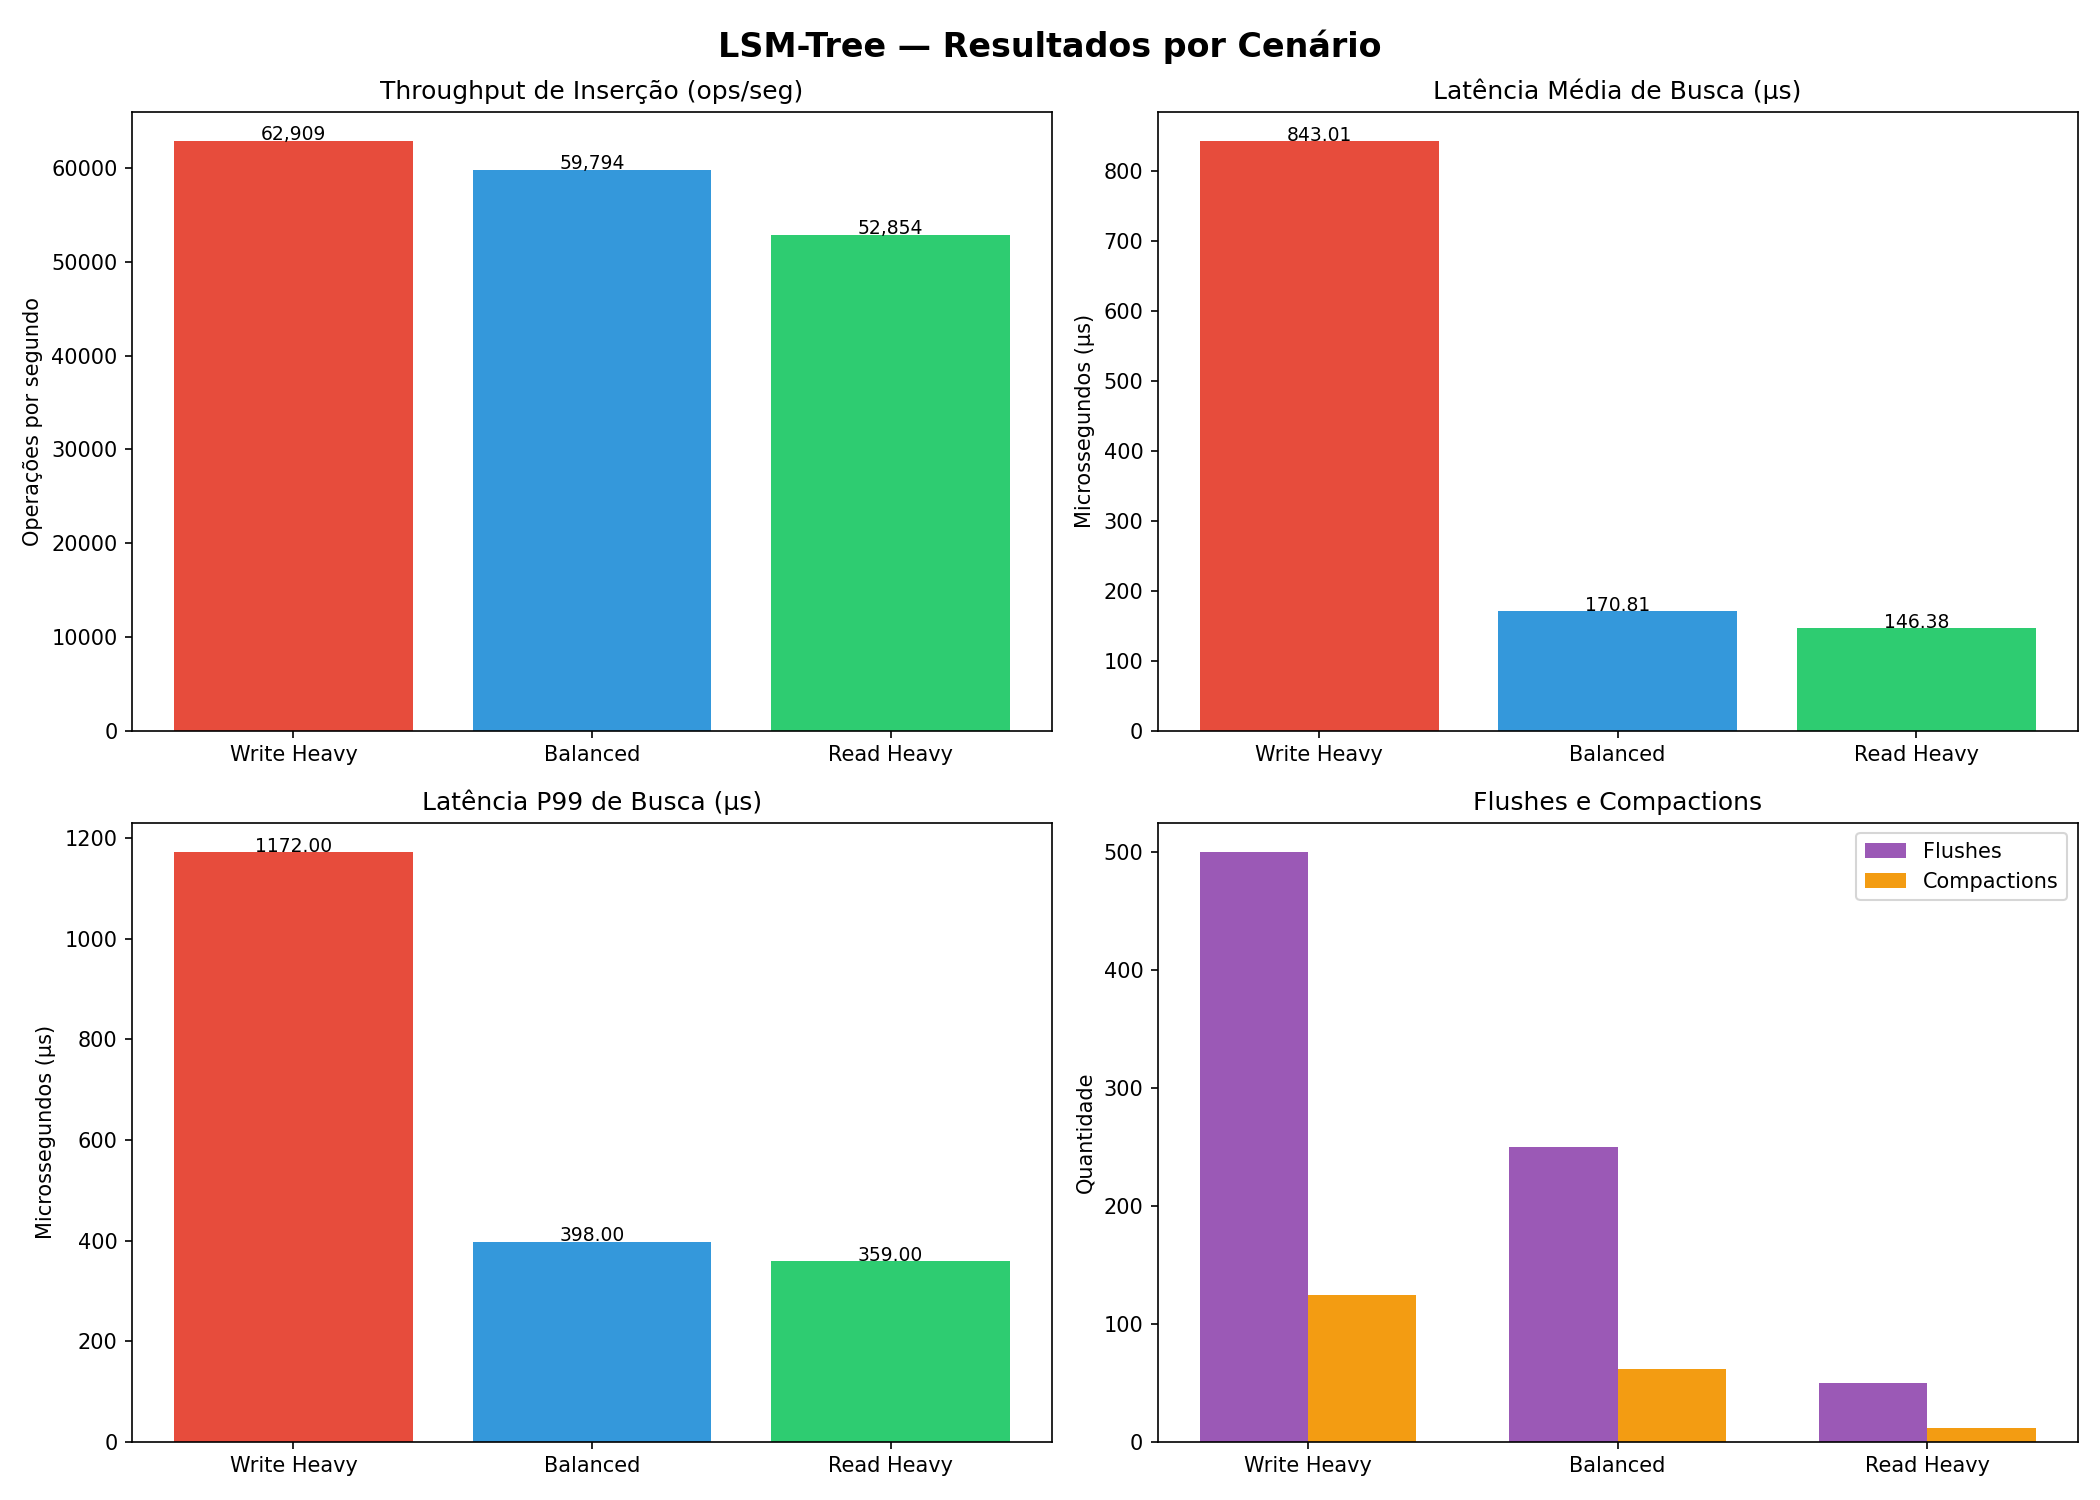
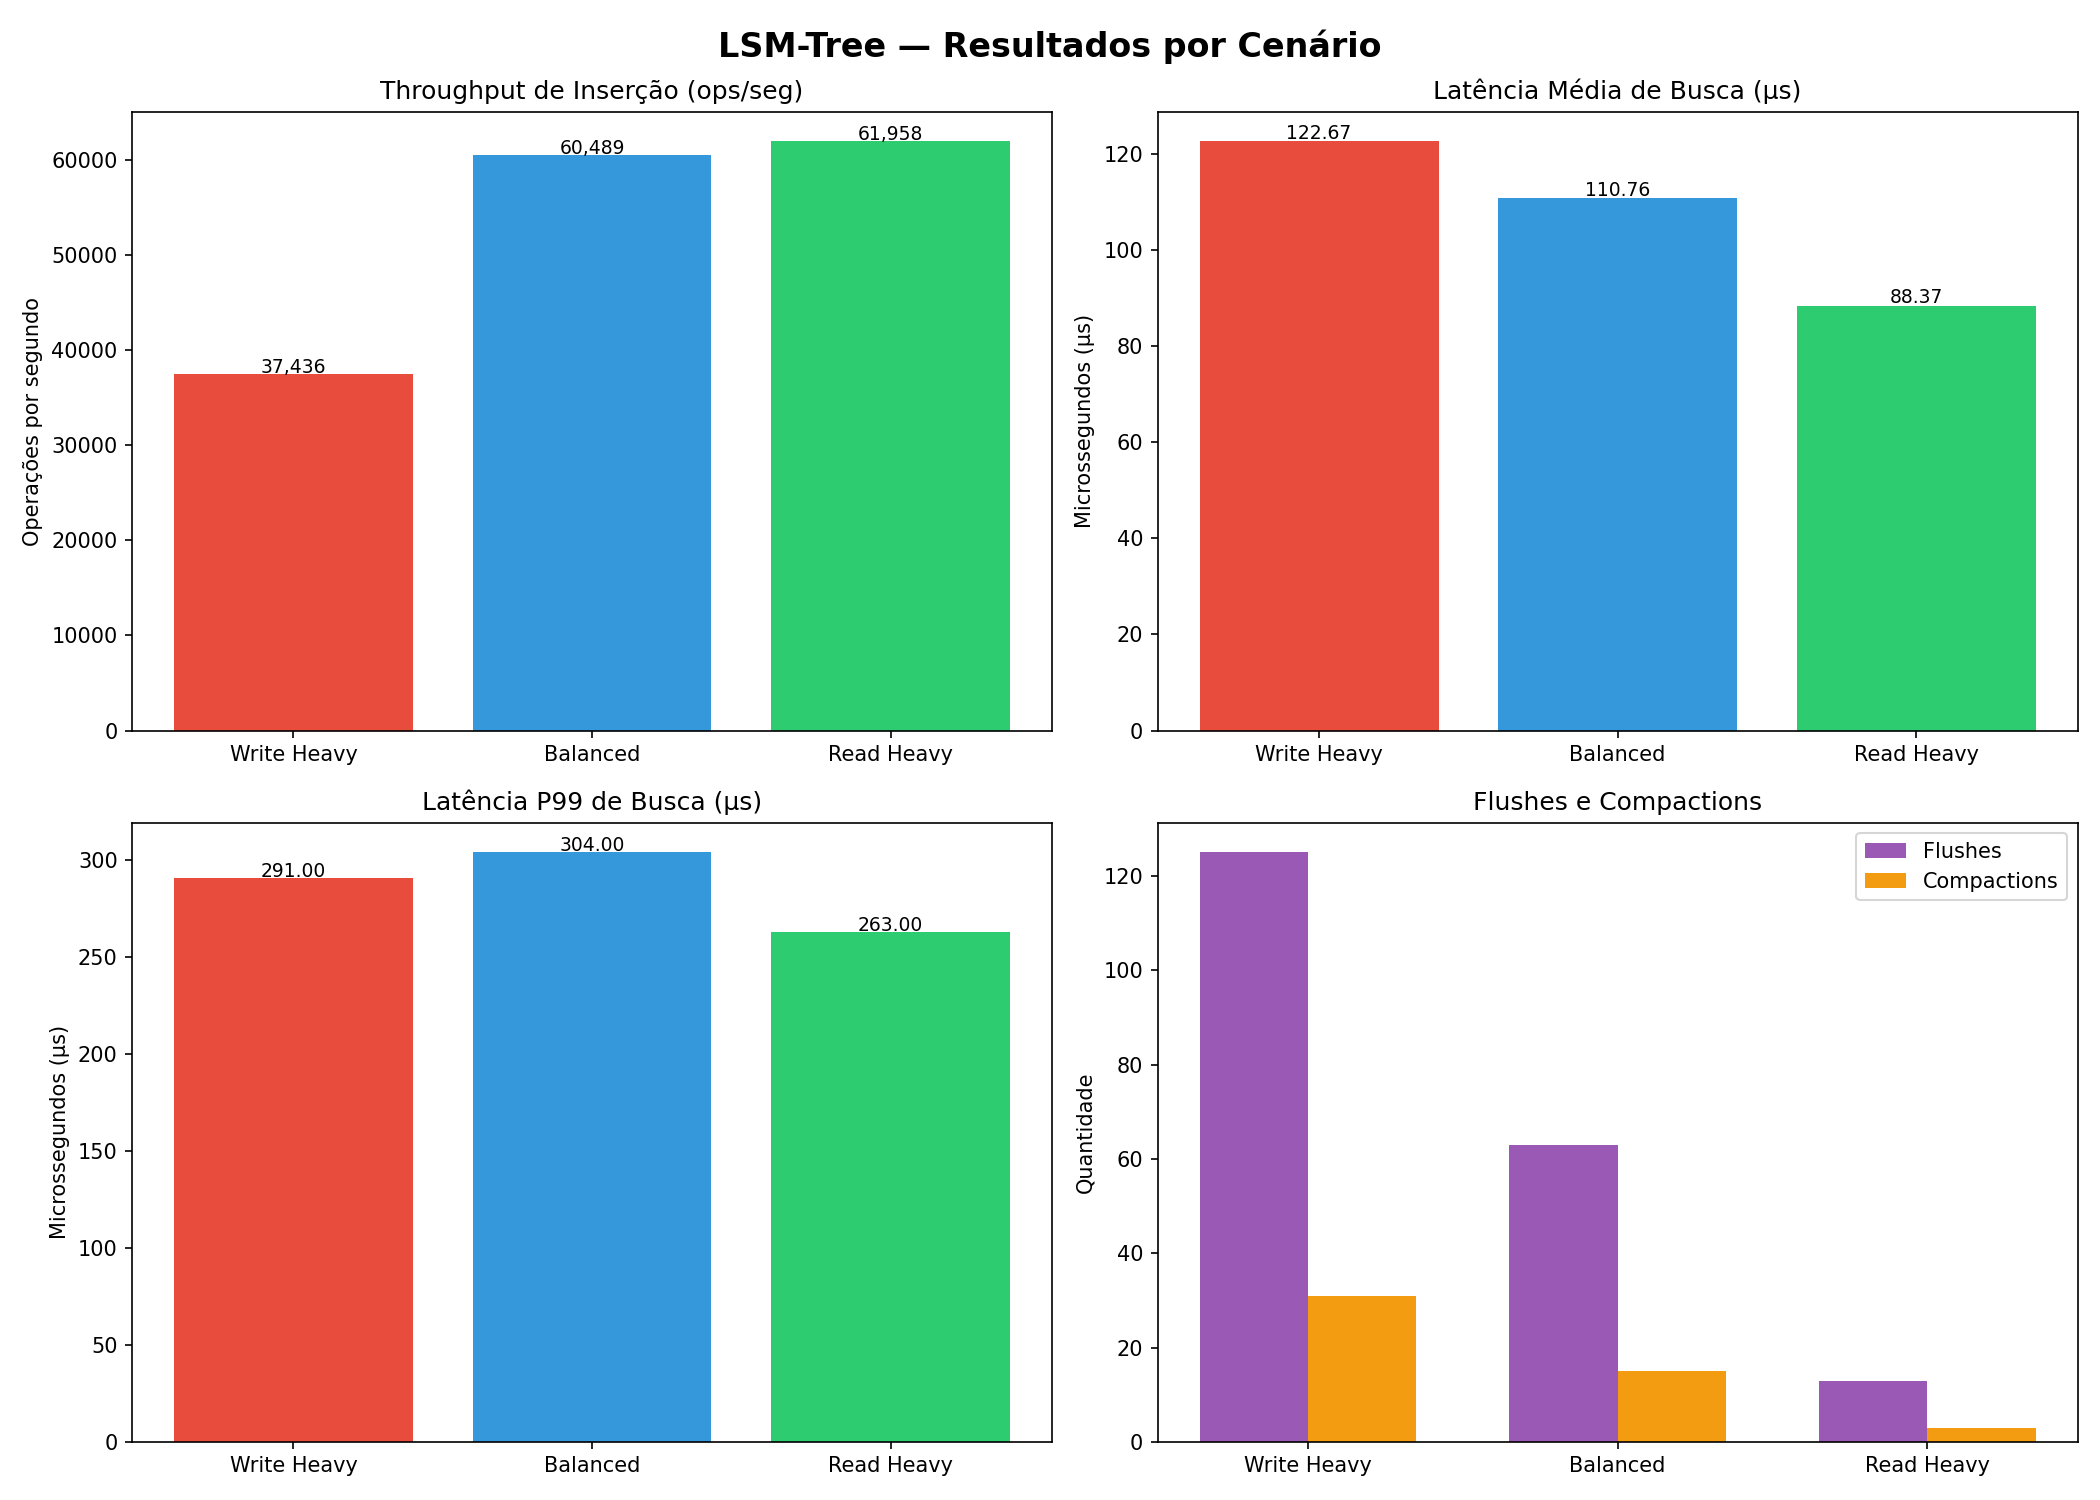
correcao bugs

diff --git a/src/main/java/lsm/core/SSTable.java b/src/main/java/lsm/core/SSTable.java
@@ -3,6 +3,7 @@ package lsm.core;
 import java.io.BufferedReader;
 import java.io.BufferedWriter;
 import java.io.IOException;
+import java.io.RandomAccessFile;
 import java.nio.file.Files;
 import java.nio.file.Path;
 import java.util.ArrayList;
@@ -11,41 +12,131 @@ import java.util.List;
 public class SSTable {
 
     private final Path filePath;
+    private final Path indexPath;
     private final int level;
     private final long timestamp;
 
+    // Índice carregado uma única vez em memória — reutilizado em todas as buscas
+    private List<String> indexKeys    = null;
+    private List<Long>   indexOffsets = null;
+
     public SSTable(Path filePath, int level, long timestamp) {
-        this.filePath = filePath;
-        this.level = level;
+        this.filePath  = filePath;
+        this.indexPath = Path.of(filePath.toString().replace(".sst", ".index"));
+        this.level     = level;
         this.timestamp = timestamp;
     }
 
-    // Salva os pares chave=valor no disco em ordem crescente de chave
+    // Salva os pares chave=valor no disco em ordem crescente de chave.
+    // Gera também um arquivo .index com os offsets de byte de cada linha
+    // e carrega esse índice em memória imediatamente.
 
     public void write(List<String[]> entries) throws IOException {
         Files.createDirectories(filePath.getParent());
 
+        List<String> keys    = new ArrayList<>(entries.size());
+        List<Long>   offsets = new ArrayList<>(entries.size());
+
         try (BufferedWriter writer = Files.newBufferedWriter(filePath)) {
+            long offset = 0;
             for (String[] entry : entries) {
-                writer.write(entry[0] + "=" + entry[1]);
-                writer.newLine();
+                keys.add(entry[0]);
+                offsets.add(offset);
+                String line = entry[0] + "=" + entry[1] + "\n";
+                writer.write(line);
+                offset += line.getBytes().length;
+            }
+        }
+
+        // Persiste o índice no disco
+        try (BufferedWriter idxWriter = Files.newBufferedWriter(indexPath)) {
+            for (int i = 0; i < keys.size(); i++) {
+                idxWriter.write(keys.get(i) + "=" + offsets.get(i));
+                idxWriter.newLine();
+            }
+        }
+
+        // Mantém o índice em memória para buscas imediatas
+        this.indexKeys    = keys;
+        this.indexOffsets = offsets;
+    }
+
+    // Carrega o índice do disco para memória (chamado uma única vez por SSTable).
+    // Nas buscas subsequentes o índice já está em memória — sem I/O de índice.
+
+    private void loadIndex() throws IOException {
+        indexKeys    = new ArrayList<>();
+        indexOffsets = new ArrayList<>();
+
+        if (!Files.exists(indexPath))
+            return;
+
+        try (BufferedReader reader = Files.newBufferedReader(indexPath)) {
+            String line;
+            while ((line = reader.readLine()) != null) {
+                int sep = line.lastIndexOf('=');
+                if (sep > 0) {
+                    indexKeys.add(line.substring(0, sep));
+                    indexOffsets.add(Long.parseLong(line.substring(sep + 1)));
+                }
             }
         }
     }
 
-    // Busca um valor pela chave no arquivo
+    // Busca um valor pela chave usando busca binária sobre o índice em memória.
+    // O índice é carregado do disco apenas na primeira chamada — O(n) uma vez.
+    // Buscas seguintes: O(log n) puro, sem nenhum I/O de índice.
 
     public Integer get(String key) throws IOException {
         if (!Files.exists(filePath))
             return null;
 
+        // Sem índice no disco: cai no fallback linear
+        if (!Files.exists(indexPath))
+            return getLinear(key);
+
+        // Carrega o índice na primeira busca desta SSTable
+        if (indexKeys == null)
+            loadIndex();
+
+        if (indexKeys.isEmpty())
+            return null;
+
+        // Busca binária sobre as chaves do índice (já em memória)
+        int lo = 0, hi = indexKeys.size() - 1, found = -1;
+        while (lo <= hi) {
+            int mid = (lo + hi) >>> 1;
+            int cmp = indexKeys.get(mid).compareTo(key);
+            if (cmp == 0) { found = mid; break; }
+            else if (cmp < 0) lo = mid + 1;
+            else              hi = mid - 1;
+        }
+
+        if (found == -1)
+            return null;
+
+        // Seek direto para o offset no .sst — lê apenas 1 linha
+        try (RandomAccessFile raf = new RandomAccessFile(filePath.toFile(), "r")) {
+            raf.seek(indexOffsets.get(found));
+            String line = raf.readLine();
+            if (line != null) {
+                int sep = line.indexOf('=');
+                if (sep > 0)
+                    return Integer.parseInt(line.substring(sep + 1).trim());
+            }
+        }
+
+        return null;
+    }
+
+    // Fallback linear para arquivos sem índice (compatibilidade)
+    private Integer getLinear(String key) throws IOException {
         try (BufferedReader reader = Files.newBufferedReader(filePath)) {
             String line;
             while ((line = reader.readLine()) != null) {
                 String[] parts = line.split("=", 2);
-                if (parts.length == 2 && parts[0].equals(key)) {
+                if (parts.length == 2 && parts[0].equals(key))
                     return Integer.parseInt(parts[1]);
-                }
             }
         }
         return null;
@@ -62,30 +153,23 @@ public class SSTable {
             String line;
             while ((line = reader.readLine()) != null) {
                 String[] parts = line.split("=", 2);
-                if (parts.length == 2) {
+                if (parts.length == 2)
                     result.add(new String[] { parts[0], parts[1] });
-                }
             }
         }
         return result;
     }
 
-    // Deleta o arquivo do disco (usado após compaction)
-    
+    // Deleta o .sst e o .index do disco (usado após compaction)
+
     public void delete() throws IOException {
         Files.deleteIfExists(filePath);
+        Files.deleteIfExists(indexPath);
+        indexKeys    = null;
+        indexOffsets = null;
     }
 
-    public Path getFilePath() {
-        return filePath;
-    }
-
-    public int getLevel() {
-        return level;
-    }
-
-    public long getTimestamp() {
-        return timestamp;
-    }
+    public Path getFilePath() { return filePath;  }
+    public int  getLevel()    { return level;      }
+    public long getTimestamp(){ return timestamp;  }
 }
-

diff --git a/src/main/java/lsm/core/LSMTree.java b/src/main/java/lsm/core/LSMTree.java
@@ -3,8 +3,9 @@ package lsm.core;
 import java.io.IOException;
 import java.nio.file.Paths;
 import java.util.ArrayList;
+import java.util.HashMap;
 import java.util.List;
-
+import java.util.Map;
 import lsm.util.MetricsLogger;
 
 public class LSMTree {
@@ -104,22 +105,30 @@ public class LSMTree {
 
         System.out.println("[compact] Compactando L" + level + " → L" + (level + 1));
 
-        // Lê todos os dados do nível atual
-        // Chave mais nova sobrescreve a mais antiga
-        List<String[]> merged = new ArrayList<>();
+        // Lê todos os dados do nível atual E do próximo usando HashMap para deduplicação O(1)
+        // Lê nível N+1 primeiro (dados mais antigos), depois nível N (mais recentes sobrescrevem)
+        Map<String, String> mergedMap = new HashMap<>();
+        int nextLevel = level + 1;
+        for (SSTable sst : levels.get(nextLevel)) {
+            for (String[] entry : sst.readAll()) {
+                mergedMap.put(entry[0], entry[1]);
+            }
+        }
         for (SSTable sst : currentLevel) {
             for (String[] entry : sst.readAll()) {
-                // Remove entrada antiga da mesma chave se existir
-                merged.removeIf(e -> e[0].equals(entry[0]));
-                merged.add(entry);
+                // Dados do nível N (mais recentes) sobrescrevem os do N+1 (mais antigos)
+                mergedMap.put(entry[0], entry[1]);
             }
         }
 
-        // Ordena pelo chave antes de salvar
+        // Converte Map para List e ordena pelo chave
+        List<String[]> merged = new ArrayList<>();
+        for (Map.Entry<String, String> entry : mergedMap.entrySet()) {
+            merged.add(new String[] { entry.getKey(), entry.getValue() });
+        }
         merged.sort((a, b) -> a[0].compareTo(b[0]));
 
         // Cria nova SSTable no nível superior
-        int nextLevel = level + 1;
         long timestamp = System.nanoTime();
         String fileName = String.format("sst_compact_%06d.sst", compactionCount);
         SSTable compacted = new SSTable(

diff --git a/src/main/java/lsm/benchmark/BenchmarkRunner.java b/src/main/java/lsm/benchmark/BenchmarkRunner.java
@@ -23,7 +23,9 @@ public class BenchmarkRunner {
         MetricsLogger logger = new MetricsLogger(scenario, metricsPath);
 
         // ── Cria LSMTree ─────────────────────────────────────
-        LSMTree lsm = new LSMTree(memTableSize, "results/data", logger);
+        // Diretório isolado por cenário para evitar race condition entre containers paralelos
+        String dataDir = "results/data/" + scenario;
+        LSMTree lsm = new LSMTree(memTableSize, dataDir, logger);
 
         // ── Define buscas por cenário ────────────────────────
         int numSearches;

diff --git a/docker/Dockerfile.java b/docker/Dockerfile.java
@@ -2,4 +2,4 @@
 WORKDIR /app
 COPY src/ /app/src/
 RUN mkdir -p /app/out
-CMD ["sh", "-c", "find /app/src -name '*.java' > sources.txt && javac -d /app/out @sources.txt && java -Xmx128m -cp /app/out lsm.benchmark.BenchmarkRunner"]
+CMD ["sh", "-c", "find /app/src -name '*.java' > sources.txt && javac -d /app/out @sources.txt && java -Xmx400m -cp /app/out lsm.benchmark.BenchmarkRunner"]
